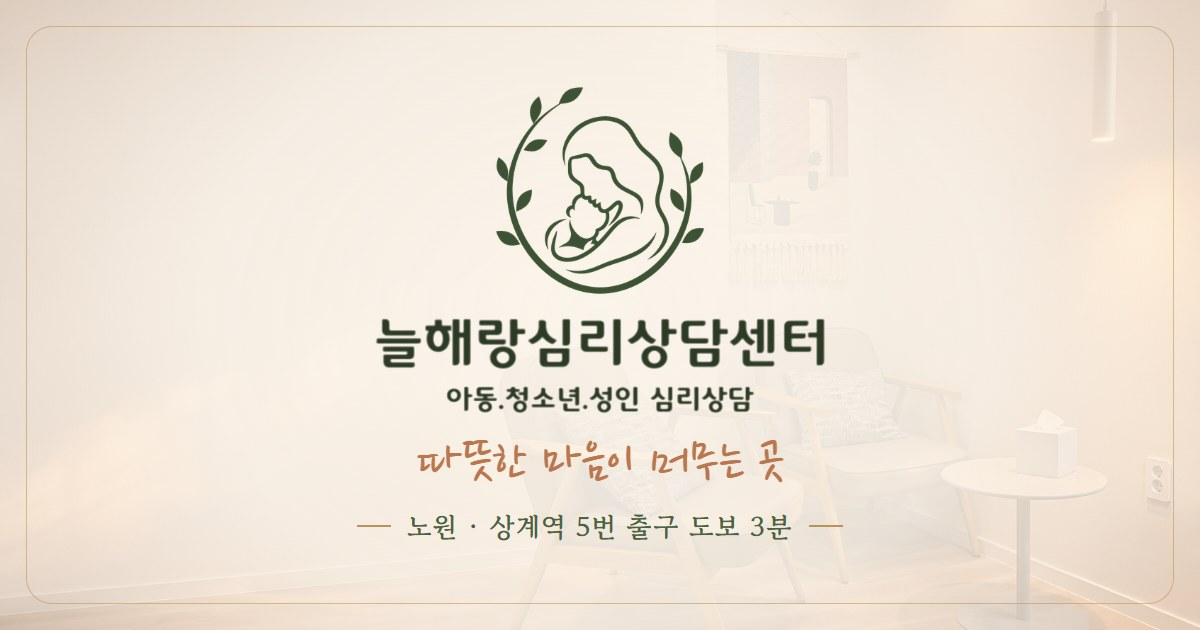
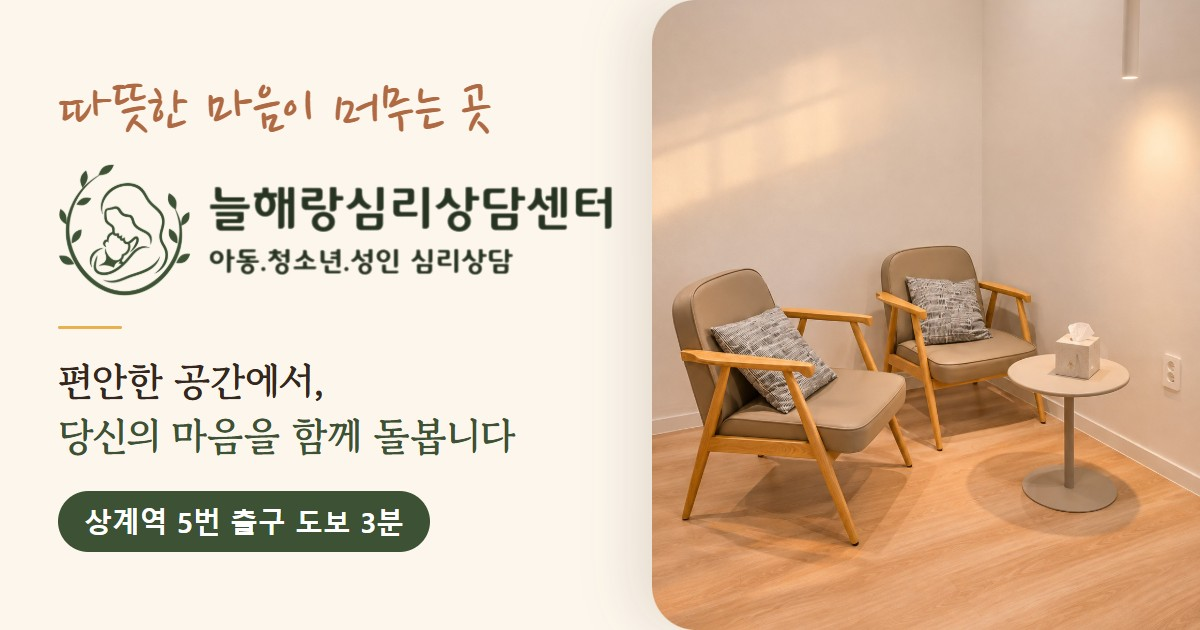
style(neulhaerang): 공유 그림 다시(실제 상담실 사진 + 큰 글자), 첫 장면과 상담 종류 카드 사이 띄움

diff --git a/neulhaerang/css/style.css b/neulhaerang/css/style.css
@@ -146,8 +146,8 @@ a:hover > .more svg, a:hover .more svg, .more:hover svg { transform: translateX(
 .hero-seal b { color: #ffd77a; font-size: 1.24em; }
 
 /* ───── 네 가지 상담(홍보물의 그림 아이콘) — 첫 장면 아래로 살짝 겹쳐 올라온다 ───── */
-.kinds-sec { position: relative; z-index: 2; padding-bottom: clamp(36px, 4.4vw, 60px); background: var(--ivory); }
-.kinds { display: grid; grid-template-columns: repeat(4, minmax(0, 1fr)); margin-top: clamp(-64px, -5vw, -34px); border-radius: 28px; background: #fff; box-shadow: var(--shadow); overflow: hidden; }
+.kinds-sec { position: relative; z-index: 2; padding-top: clamp(30px, 3.8vw, 56px); padding-bottom: clamp(36px, 4.4vw, 60px); background: var(--ivory); }
+.kinds { display: grid; grid-template-columns: repeat(4, minmax(0, 1fr)); border-radius: 28px; background: #fff; box-shadow: var(--shadow); overflow: hidden; }
 .kind { position: relative; padding: clamp(24px, 2.8vw, 40px) clamp(16px, 2vw, 30px); text-align: center; transition: background .3s; }
 .kind + .kind::before { content: ""; position: absolute; left: 0; top: 22%; bottom: 22%; width: 1px; background: var(--line); }
 .kind:hover { background: var(--ivory); }
@@ -373,7 +373,7 @@ a:hover > .more svg, a:hover .more svg, .more:hover svg { transform: translateX(
 .loc-ph img { width: 100%; aspect-ratio: 4 / 3; object-fit: cover; }
 .loc-ph figcaption { padding: 14px 20px; color: var(--ink-soft); font-size: 16.5px; }
 /* 상담프로그램 */
-.kinds-sub { padding-top: 0; }
+.kinds-sub { padding-top: clamp(30px, 3.8vw, 56px); }
 .progs { display: grid; gap: clamp(56px, 8vw, 110px); }
 .prog { display: grid; grid-template-columns: minmax(0, 1fr) minmax(0, 1fr); gap: clamp(26px, 5vw, 76px); align-items: center; scroll-margin-top: calc(var(--hd-h) + 20px); }
 .prog.flip .prog-ph { order: 2; }

diff --git a/neulhaerang/program.html b/neulhaerang/program.html
@@ -9,7 +9,7 @@
 <meta property="og:site_name" content="늘해랑심리상담센터">
 <meta property="og:title" content="상담프로그램 | 늘해랑심리상담센터">
 <meta property="og:description" content="늘해랑심리상담센터 상담프로그램 — 놀이치료 · 미술치료 · 모래놀이치료 · 부부/성인 상담 · TCI 기질성격검사 · 비대면 상담 · 아동 소그룹 프로그램.">
-<meta property="og:image" content="images/og.jpg?v=4">
+<meta property="og:image" content="images/og.jpg?v=5">
 <meta property="og:image:width" content="1200">
 <meta property="og:image:height" content="630">
 <meta name="theme-color" content="#fbf7f0">
@@ -21,8 +21,8 @@
 <link rel="preconnect" href="https://fonts.gstatic.com" crossorigin>
 <link rel="stylesheet" href="https://cdn.jsdelivr.net/gh/orioncactus/pretendard@v1.3.9/dist/web/variable/pretendardvariable-dynamic-subset.min.css">
 <link rel="stylesheet" href="https://fonts.googleapis.com/css2?family=Gowun+Batang:wght@700&family=Nanum+Pen+Script&display=swap">
-<link rel="stylesheet" href="css/style.css?v=20261121k">
-<script src="js/site.js?v=20261121k" defer></script>
+<link rel="stylesheet" href="css/style.css?v=20261121m">
+<script src="js/site.js?v=20261121m" defer></script>
 </head>
 <body class="sub">
 <a class="sr" href="#main">본문 바로가기</a>

diff --git a/neulhaerang/location.html b/neulhaerang/location.html
@@ -9,7 +9,7 @@
 <meta property="og:site_name" content="늘해랑심리상담센터">
 <meta property="og:title" content="오시는 길 | 늘해랑심리상담센터">
 <meta property="og:description" content="늘해랑심리상담센터 오시는 길 — 서울 노원구 한글비석로 396 벽산종합상가 108동 2층 7호, 4호선 상계역 5번 출구 도보 3분, 지하 주차장 무료.">
-<meta property="og:image" content="images/og.jpg?v=4">
+<meta property="og:image" content="images/og.jpg?v=5">
 <meta property="og:image:width" content="1200">
 <meta property="og:image:height" content="630">
 <meta name="theme-color" content="#fbf7f0">
@@ -21,8 +21,8 @@
 <link rel="preconnect" href="https://fonts.gstatic.com" crossorigin>
 <link rel="stylesheet" href="https://cdn.jsdelivr.net/gh/orioncactus/pretendard@v1.3.9/dist/web/variable/pretendardvariable-dynamic-subset.min.css">
 <link rel="stylesheet" href="https://fonts.googleapis.com/css2?family=Gowun+Batang:wght@700&family=Nanum+Pen+Script&display=swap">
-<link rel="stylesheet" href="css/style.css?v=20261121k">
-<script src="js/site.js?v=20261121k" defer></script>
+<link rel="stylesheet" href="css/style.css?v=20261121m">
+<script src="js/site.js?v=20261121m" defer></script>
 </head>
 <body class="sub">
 <a class="sr" href="#main">본문 바로가기</a>

diff --git a/neulhaerang/index.html b/neulhaerang/index.html
@@ -9,7 +9,7 @@
 <meta property="og:site_name" content="늘해랑심리상담센터">
 <meta property="og:title" content="늘해랑심리상담센터 — 따뜻한 마음이 머무는 곳">
 <meta property="og:description" content="15년 경력의 전문 상담사가 당신의 마음을 함께 돌봅니다. 노원 · 상계 아동 · 청소년 · 성인 · 부부 상담.">
-<meta property="og:image" content="images/og.jpg?v=4">
+<meta property="og:image" content="images/og.jpg?v=5">
 <meta property="og:image:width" content="1200">
 <meta property="og:image:height" content="630">
 <meta name="theme-color" content="#fbf7f0">
@@ -23,8 +23,8 @@
 <link rel="preconnect" href="https://fonts.gstatic.com" crossorigin>
 <link rel="stylesheet" href="https://cdn.jsdelivr.net/gh/orioncactus/pretendard@v1.3.9/dist/web/variable/pretendardvariable-dynamic-subset.min.css">
 <link rel="stylesheet" href="https://fonts.googleapis.com/css2?family=Gowun+Batang:wght@700&family=Nanum+Pen+Script&display=swap">
-<link rel="stylesheet" href="css/style.css?v=20261121k">
-<script src="js/site.js?v=20261121k" defer></script>
+<link rel="stylesheet" href="css/style.css?v=20261121m">
+<script src="js/site.js?v=20261121m" defer></script>
 </head>
 <body class="home">
 <a class="sr" href="#main">본문 바로가기</a>

diff --git a/neulhaerang/_layout.html b/neulhaerang/_layout.html
@@ -9,7 +9,7 @@
 <meta property="og:site_name" content="늘해랑심리상담센터">
 <meta property="og:title" content="늘해랑심리상담센터 — 따뜻한 마음이 머무는 곳">
 <meta property="og:description" content="15년 경력의 전문 상담사가 당신의 마음을 함께 돌봅니다. 노원 · 상계 아동 · 청소년 · 성인 · 부부 상담.">
-<meta property="og:image" content="images/og.jpg?v=4">
+<meta property="og:image" content="images/og.jpg?v=5">
 <meta property="og:image:width" content="1200">
 <meta property="og:image:height" content="630">
 <meta name="theme-color" content="#fbf7f0">
@@ -21,8 +21,8 @@
 <link rel="preconnect" href="https://fonts.gstatic.com" crossorigin>
 <link rel="stylesheet" href="https://cdn.jsdelivr.net/gh/orioncactus/pretendard@v1.3.9/dist/web/variable/pretendardvariable-dynamic-subset.min.css">
 <link rel="stylesheet" href="https://fonts.googleapis.com/css2?family=Gowun+Batang:wght@700&family=Nanum+Pen+Script&display=swap">
-<link rel="stylesheet" href="/css/style.css?v=20261121k">
-<script src="/js/site.js?v=20261121k" defer></script>
+<link rel="stylesheet" href="/css/style.css?v=20261121m">
+<script src="/js/site.js?v=20261121m" defer></script>
 </head>
 <body>
 <a class="sr" href="#main">본문 바로가기</a>

diff --git a/neulhaerang/team.html b/neulhaerang/team.html
@@ -9,7 +9,7 @@
 <meta property="og:site_name" content="늘해랑심리상담센터">
 <meta property="og:title" content="담당 선생님 | 늘해랑심리상담센터">
 <meta property="og:description" content="늘해랑심리상담센터의 담당 선생님 — 센터장 문은정, 수석상담사 정연옥, 손옥희 선생님, 자문위원 이선욱.">
-<meta property="og:image" content="images/og.jpg?v=4">
+<meta property="og:image" content="images/og.jpg?v=5">
 <meta property="og:image:width" content="1200">
 <meta property="og:image:height" content="630">
 <meta name="theme-color" content="#fbf7f0">
@@ -21,8 +21,8 @@
 <link rel="preconnect" href="https://fonts.gstatic.com" crossorigin>
 <link rel="stylesheet" href="https://cdn.jsdelivr.net/gh/orioncactus/pretendard@v1.3.9/dist/web/variable/pretendardvariable-dynamic-subset.min.css">
 <link rel="stylesheet" href="https://fonts.googleapis.com/css2?family=Gowun+Batang:wght@700&family=Nanum+Pen+Script&display=swap">
-<link rel="stylesheet" href="css/style.css?v=20261121k">
-<script src="js/site.js?v=20261121k" defer></script>
+<link rel="stylesheet" href="css/style.css?v=20261121m">
+<script src="js/site.js?v=20261121m" defer></script>
 </head>
 <body class="sub">
 <a class="sr" href="#main">본문 바로가기</a>

diff --git a/neulhaerang/guide.html b/neulhaerang/guide.html
@@ -9,7 +9,7 @@
 <meta property="og:site_name" content="늘해랑심리상담센터">
 <meta property="og:title" content="이용안내 | 늘해랑심리상담센터">
 <meta property="og:description" content="늘해랑심리상담센터 이용안내 — 상담 과정, 예약 방법, 상담 시간, 비용과 상담비 지원제도, 자주 묻는 질문.">
-<meta property="og:image" content="images/og.jpg?v=4">
+<meta property="og:image" content="images/og.jpg?v=5">
 <meta property="og:image:width" content="1200">
 <meta property="og:image:height" content="630">
 <meta name="theme-color" content="#fbf7f0">
@@ -21,8 +21,8 @@
 <link rel="preconnect" href="https://fonts.gstatic.com" crossorigin>
 <link rel="stylesheet" href="https://cdn.jsdelivr.net/gh/orioncactus/pretendard@v1.3.9/dist/web/variable/pretendardvariable-dynamic-subset.min.css">
 <link rel="stylesheet" href="https://fonts.googleapis.com/css2?family=Gowun+Batang:wght@700&family=Nanum+Pen+Script&display=swap">
-<link rel="stylesheet" href="css/style.css?v=20261121k">
-<script src="js/site.js?v=20261121k" defer></script>
+<link rel="stylesheet" href="css/style.css?v=20261121m">
+<script src="js/site.js?v=20261121m" defer></script>
 </head>
 <body class="sub">
 <a class="sr" href="#main">본문 바로가기</a>

diff --git a/neulhaerang/about.html b/neulhaerang/about.html
@@ -9,7 +9,7 @@
 <meta property="og:site_name" content="늘해랑심리상담센터">
 <meta property="og:title" content="인사말 | 늘해랑심리상담센터">
 <meta property="og:description" content="늘해랑심리상담센터 센터장 문은정의 인사말과 상담 철학. 늘 해와 같이 살아가는 밝고 강한 사람, 늘해랑.">
-<meta property="og:image" content="images/og.jpg?v=4">
+<meta property="og:image" content="images/og.jpg?v=5">
 <meta property="og:image:width" content="1200">
 <meta property="og:image:height" content="630">
 <meta name="theme-color" content="#fbf7f0">
@@ -21,8 +21,8 @@
 <link rel="preconnect" href="https://fonts.gstatic.com" crossorigin>
 <link rel="stylesheet" href="https://cdn.jsdelivr.net/gh/orioncactus/pretendard@v1.3.9/dist/web/variable/pretendardvariable-dynamic-subset.min.css">
 <link rel="stylesheet" href="https://fonts.googleapis.com/css2?family=Gowun+Batang:wght@700&family=Nanum+Pen+Script&display=swap">
-<link rel="stylesheet" href="css/style.css?v=20261121k">
-<script src="js/site.js?v=20261121k" defer></script>
+<link rel="stylesheet" href="css/style.css?v=20261121m">
+<script src="js/site.js?v=20261121m" defer></script>
 </head>
 <body class="sub">
 <a class="sr" href="#main">본문 바로가기</a>

diff --git a/neulhaerang/space.html b/neulhaerang/space.html
@@ -9,7 +9,7 @@
 <meta property="og:site_name" content="늘해랑심리상담센터">
 <meta property="og:title" content="공간안내 | 늘해랑심리상담센터">
 <meta property="og:description" content="늘해랑심리상담센터 공간안내 — 조용하고 독립된 상담실, 놀이 · 모래놀이실, 대기 공간.">
-<meta property="og:image" content="images/og.jpg?v=4">
+<meta property="og:image" content="images/og.jpg?v=5">
 <meta property="og:image:width" content="1200">
 <meta property="og:image:height" content="630">
 <meta name="theme-color" content="#fbf7f0">
@@ -21,8 +21,8 @@
 <link rel="preconnect" href="https://fonts.gstatic.com" crossorigin>
 <link rel="stylesheet" href="https://cdn.jsdelivr.net/gh/orioncactus/pretendard@v1.3.9/dist/web/variable/pretendardvariable-dynamic-subset.min.css">
 <link rel="stylesheet" href="https://fonts.googleapis.com/css2?family=Gowun+Batang:wght@700&family=Nanum+Pen+Script&display=swap">
-<link rel="stylesheet" href="css/style.css?v=20261121k">
-<script src="js/site.js?v=20261121k" defer></script>
+<link rel="stylesheet" href="css/style.css?v=20261121m">
+<script src="js/site.js?v=20261121m" defer></script>
 </head>
 <body class="sub">
 <a class="sr" href="#main">본문 바로가기</a>
